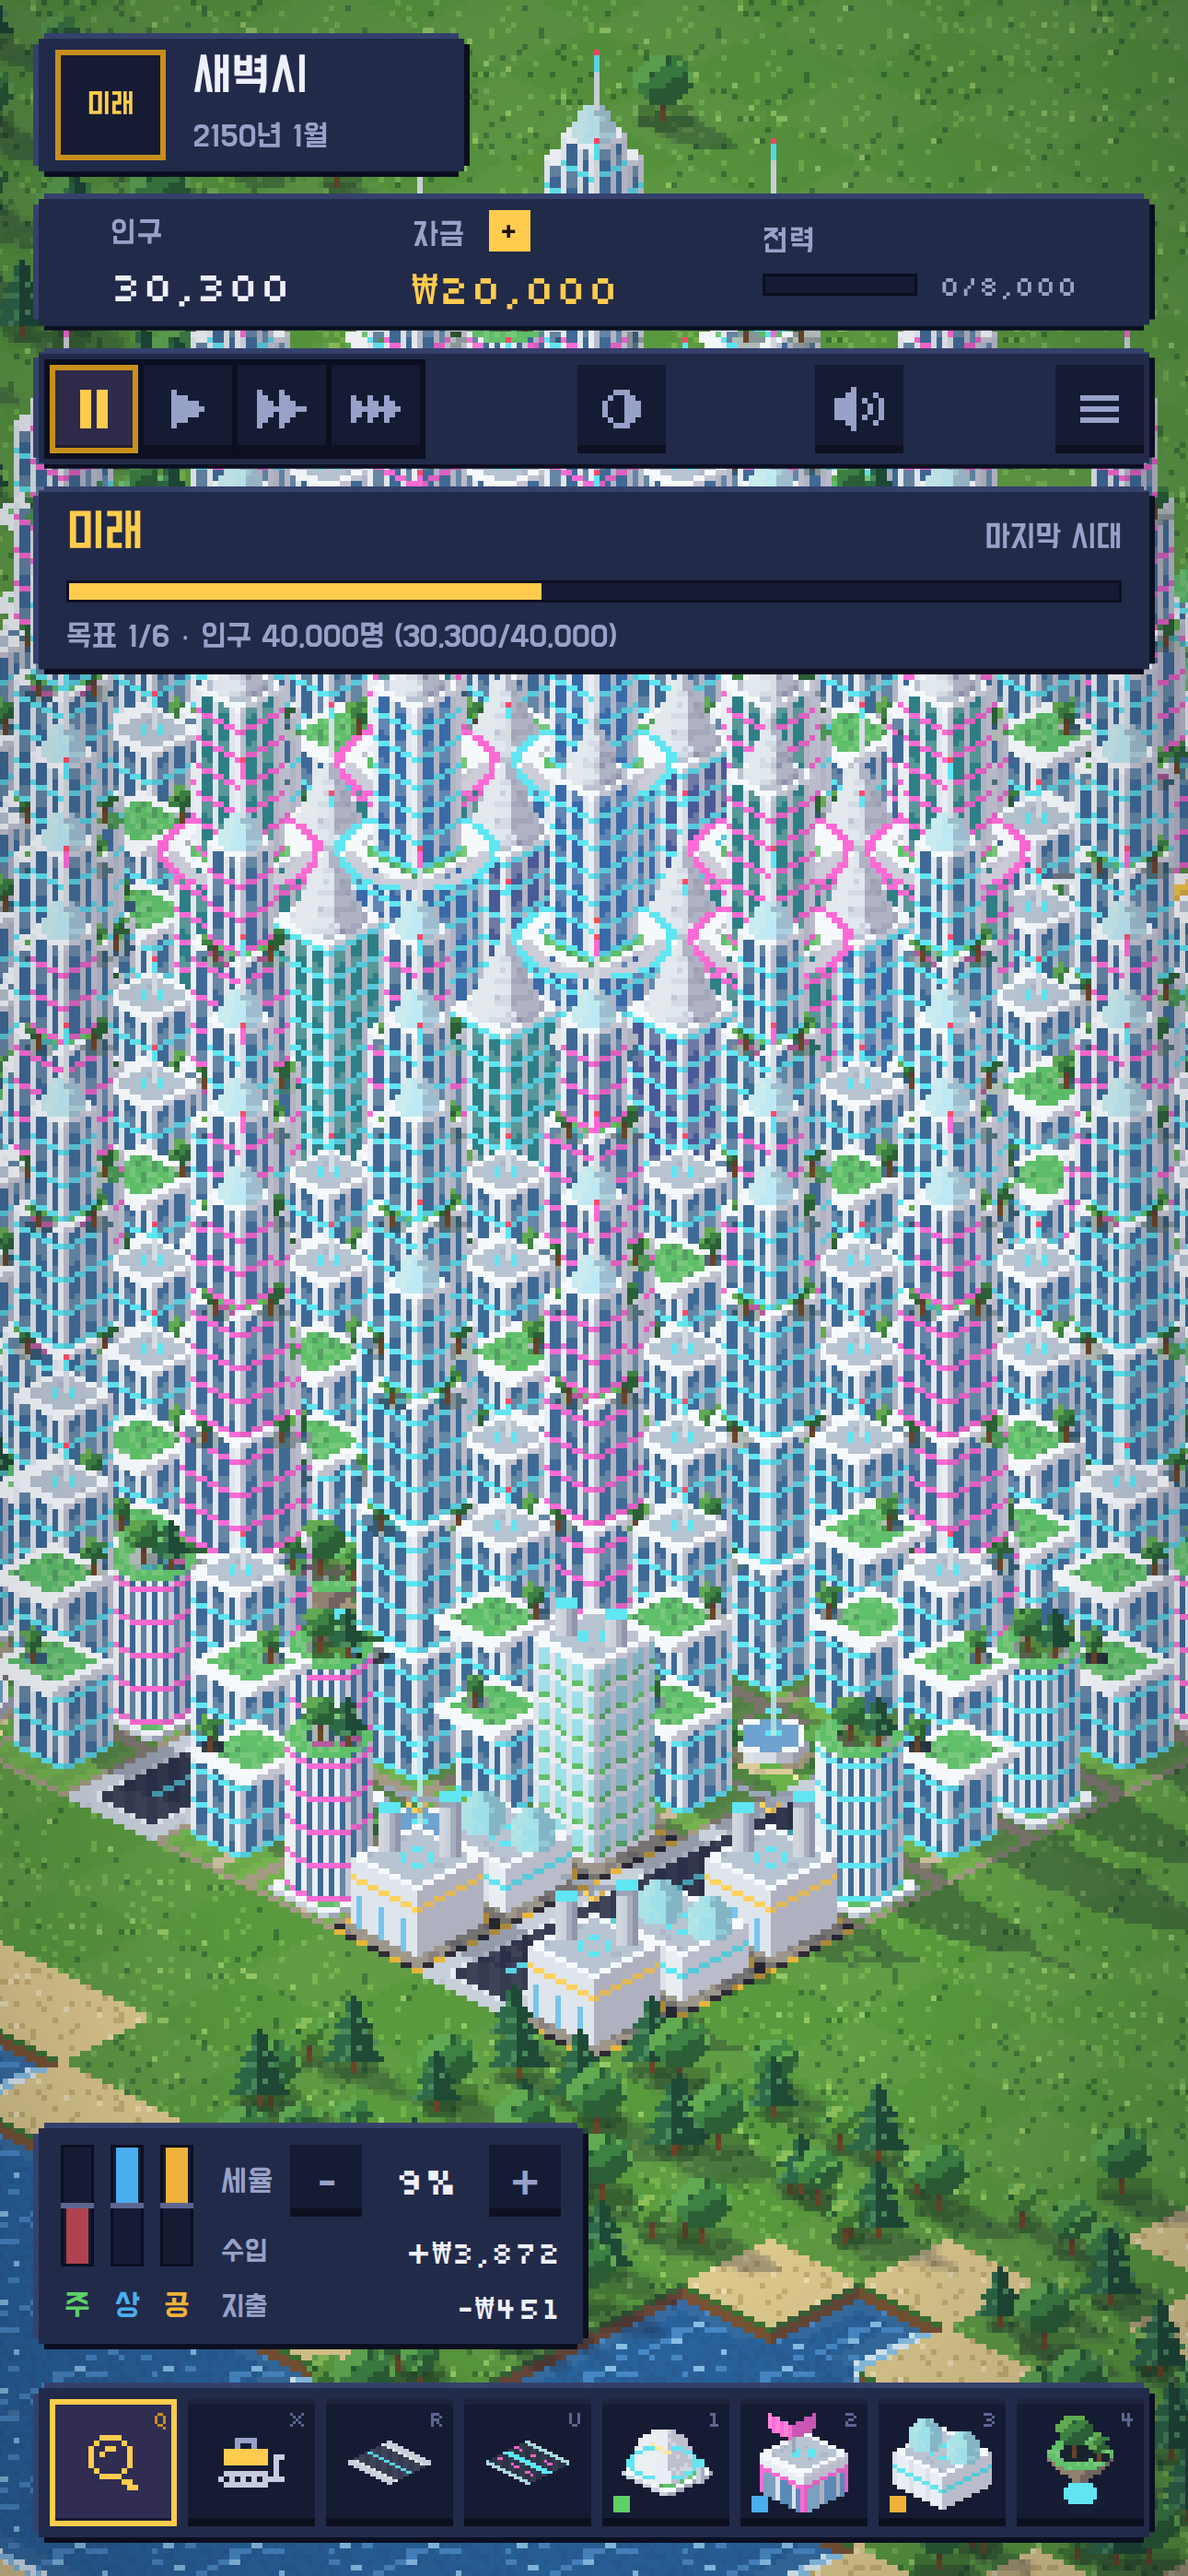
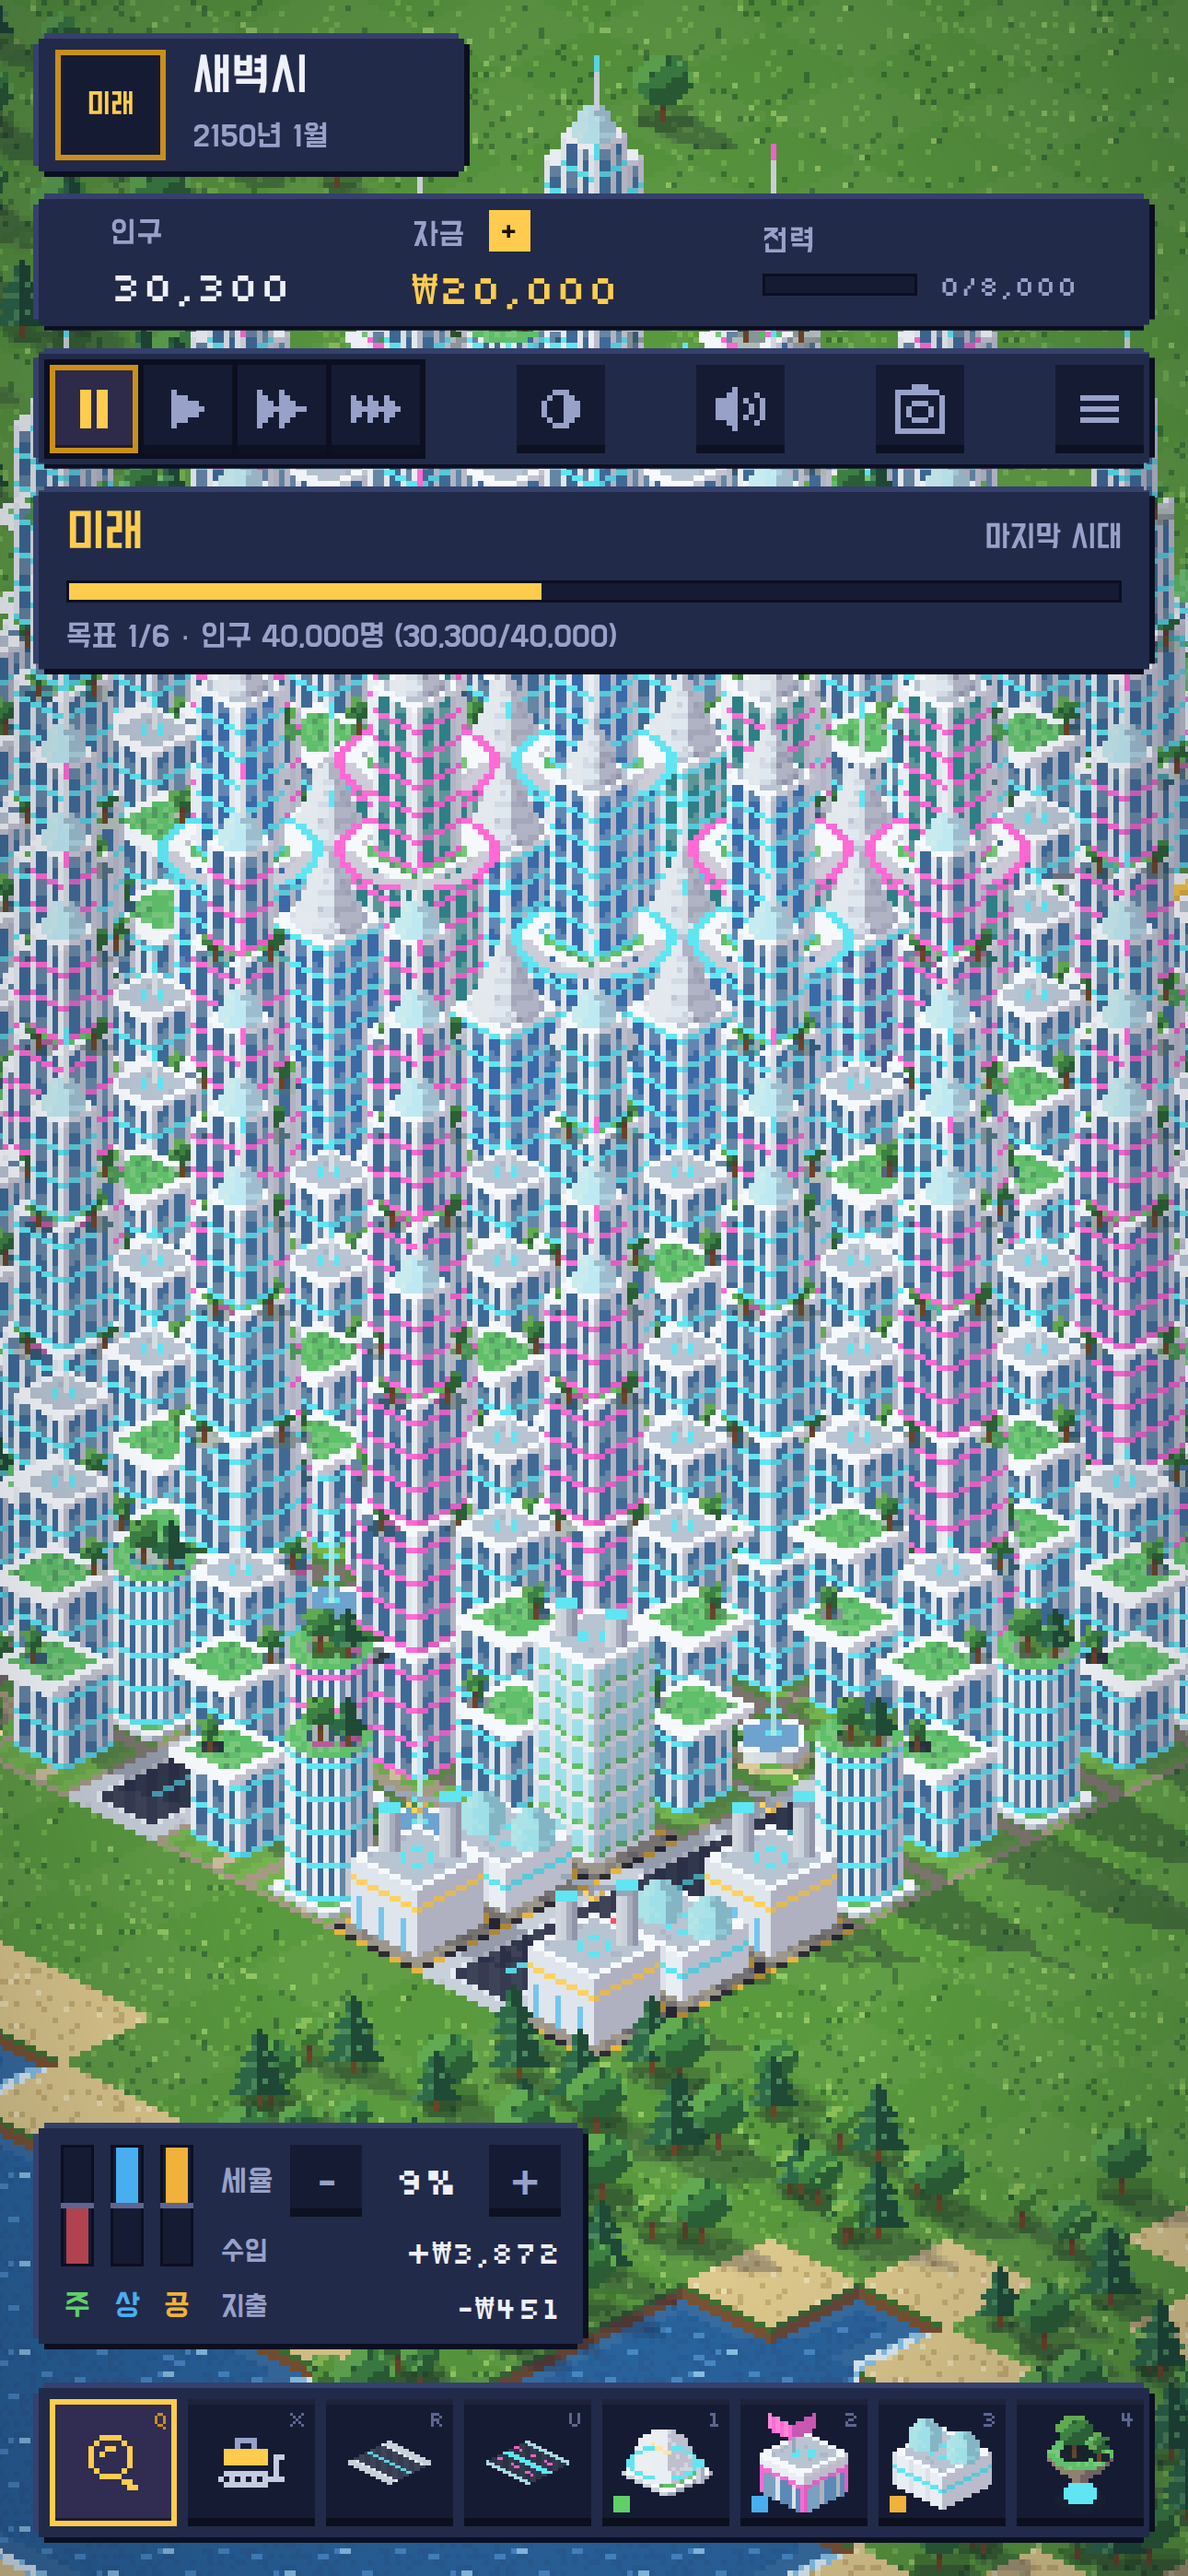
도트시티 출시 준비: 사진 공유 플러그인·사진 저장 권한, 새 스토어 스크린샷(공항), 출시 문서·지원 페이지 갱신
Claude-Session: https://claude.ai/code/session_01XxvA4eUhsjPuZbBYtpabHX

diff --git a/dotcity/index.html b/dotcity/index.html
@@ -2455,7 +2455,9 @@ function photoMode(on){if(on){photoPrev={dayMode};setTool('inspect');selected=nu
   else{photoWx=null;document.body.classList.remove('photo');$('#photobar').hidden=true;if(photoPrev){dayMode=photoPrev.dayMode;if(typeof paintDayBtn==='function')paintDayBtn();}photoPrev=null;}}
 function paintPhoto(){document.querySelectorAll('#photobar [data-ph]').forEach(b=>b.setAttribute('aria-pressed',String(b.dataset.ph===dayMode)));
   document.querySelectorAll('#photobar [data-wx]').forEach(b=>b.setAttribute('aria-pressed',String(b.dataset.wx==='auto'?photoWx==null:photoWx===+b.dataset.wx)));}
-function takePhoto(){sfx('place');requestAnimationFrame(()=>view.toBlob(async blob=>{if(!blob)return;const file=new File([blob],'dotcity.png',{type:'image/png'});
+function takePhoto(){sfx('place');requestAnimationFrame(()=>view.toBlob(async blob=>{if(!blob)return;
+  if(window.DotShare){try{await window.DotShare(blob,'dotcity.png');return;}catch(e){if(/cancel/i.test(String(e&&e.message||e)))return;}}   // the app: native share sheet
+  const file=new File([blob],'dotcity.png',{type:'image/png'});
   try{if(navigator.canShare&&navigator.canShare({files:[file]})){await navigator.share({files:[file],title:W.name});return;}}catch(e){if(e&&e.name==='AbortError')return;}
   const url=URL.createObjectURL(blob);let framed=false;try{framed=window.self!==window.top;}catch(e){framed=true;}if(!window.Capacitor&&!framed){const a=document.createElement('a');a.href=url;a.download=`${W.name}.png`;document.body.append(a);a.click();a.remove();toast('사진을 저장했어요.','good');return;}
   $('#shotImg').src=url;$('#shotView').hidden=false;},'image/png'));}

diff --git a/site/index.html b/site/index.html
@@ -55,6 +55,7 @@ footer{padding:28px 0 48px;color:var(--dim);font-size:14px;text-align:center}
     <img src="img/ios-2-dynasty.png" alt="한옥이 늘어선 왕조시대 도시">
     <img src="img/ios-3-modern-night.png" alt="불이 켜진 현대 도시의 밤">
     <img src="img/ios-4-future.png" alt="아콜로지가 솟은 미래 도시">
+    <img src="img/ios-6-airport.png" alt="공항에 내려앉는 비행기와 기차, 배가 다니는 현대 도시">
   </div>
 
   <section>
@@ -81,6 +82,11 @@ footer{padding:28px 0 48px;color:var(--dim);font-size:14px;text-align:center}
       <dt>게임머니 충전 · 광고</dt>
       <dd>앱에서 '자금' 옆 ＋를 누르면 충전 화면이 열려요. 광고 보고 받기는 하루 3번까지예요.
         결제 취소와 환불은 Apple(App Store 구입 내역) 또는 Google Play에서 처리해요.</dd>
+      <dt>꾸미기와 방향 돌리기</dt>
+      <dd>꾸미기 도구로 꽃밭·정자·놀이터 같은 소품을 놓을 수 있어요. 벤치·가로등이나 건물은 확인 창의 ↻ 버튼으로 방향을 바꾸고,
+        이미 지은 것은 살펴보기로 눌러 "방향 돌리기"를 누르면 돼요.</dd>
+      <dt>사진 저장</dt>
+      <dd>위쪽 카메라 버튼으로 사진 모드를 켜고 낮·노을·밤과 날씨를 고른 뒤 "사진 저장"을 누르세요. 공유 창에서 사진 앱에 저장할 수 있어요.</dd>
       <dt>저장은 어디에 되나요</dt>
       <dd>기기 안에 자동으로 저장돼요. 앱을 지우면 진행 상황도 함께 지워져요.</dd>
     </dl></div>

diff --git a/dotcity-app/ios/App/CapApp-SPM/Package.swift b/dotcity-app/ios/App/CapApp-SPM/Package.swift
@@ -14,6 +14,8 @@ let package = Package(
         .package(url: "https://github.com/ionic-team/capacitor-swift-pm.git", exact: "8.5.2"),
         .package(name: "CapacitorCommunityAdmob", path: "../../../node_modules/@capacitor-community/admob"),
         .package(name: "CapacitorApp", path: "../../../node_modules/@capacitor/app"),
+        .package(name: "CapacitorFilesystem", path: "../../../node_modules/@capacitor/filesystem"),
+        .package(name: "CapacitorShare", path: "../../../node_modules/@capacitor/share"),
         .package(name: "CapacitorSplashScreen", path: "../../../node_modules/@capacitor/splash-screen"),
         .package(name: "CapacitorStatusBar", path: "../../../node_modules/@capacitor/status-bar"),
         .package(name: "CapgoNativePurchases", path: "../../../node_modules/@capgo/native-purchases")
@@ -26,6 +28,8 @@ let package = Package(
                 .product(name: "Cordova", package: "capacitor-swift-pm"),
                 .product(name: "CapacitorCommunityAdmob", package: "CapacitorCommunityAdmob"),
                 .product(name: "CapacitorApp", package: "CapacitorApp"),
+                .product(name: "CapacitorFilesystem", package: "CapacitorFilesystem"),
+                .product(name: "CapacitorShare", package: "CapacitorShare"),
                 .product(name: "CapacitorSplashScreen", package: "CapacitorSplashScreen"),
                 .product(name: "CapacitorStatusBar", package: "CapacitorStatusBar"),
                 .product(name: "CapgoNativePurchases", package: "CapgoNativePurchases")
